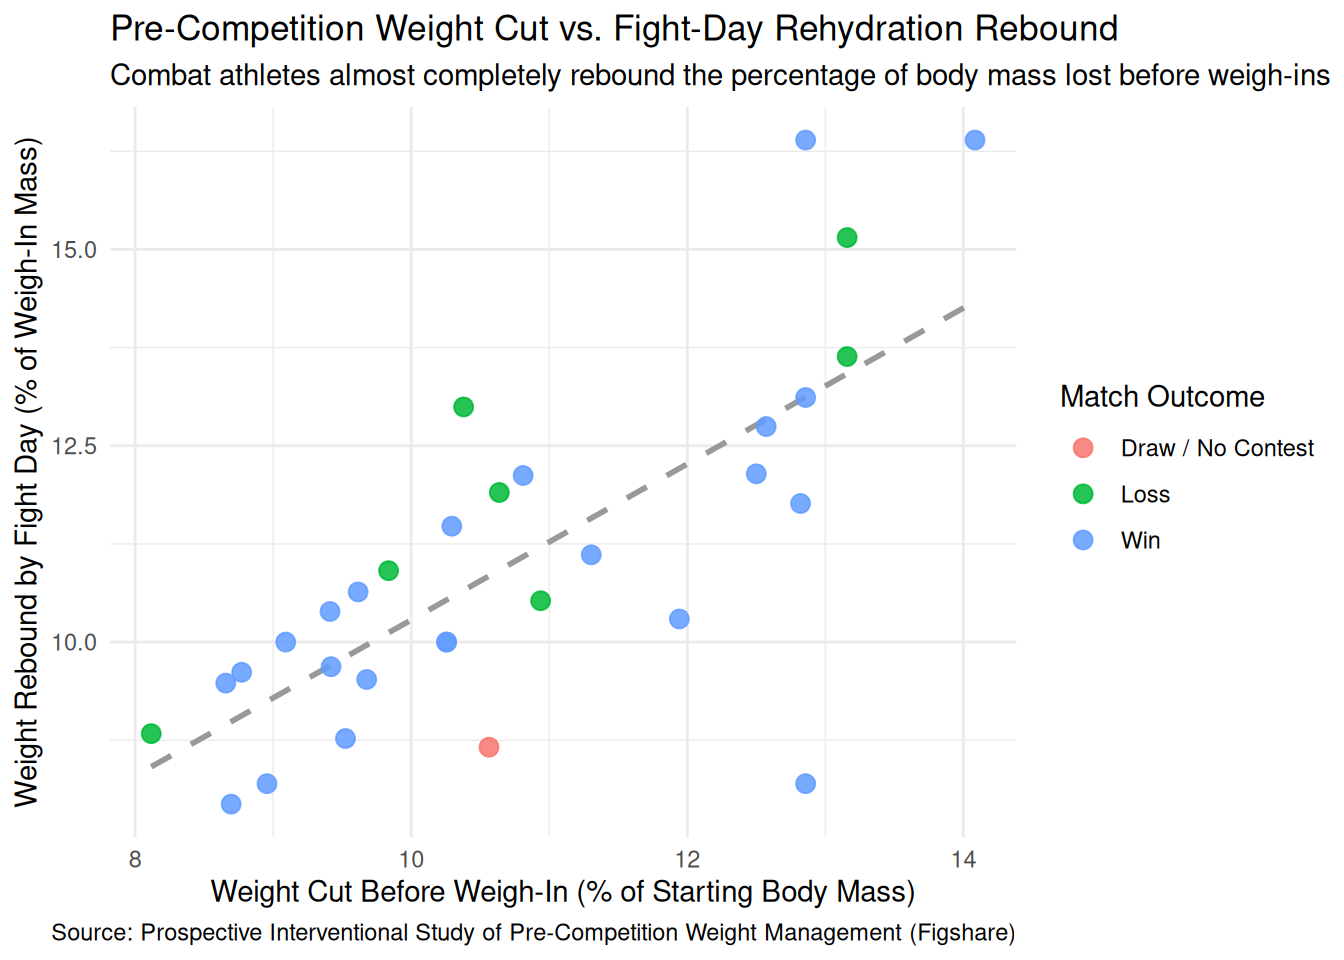
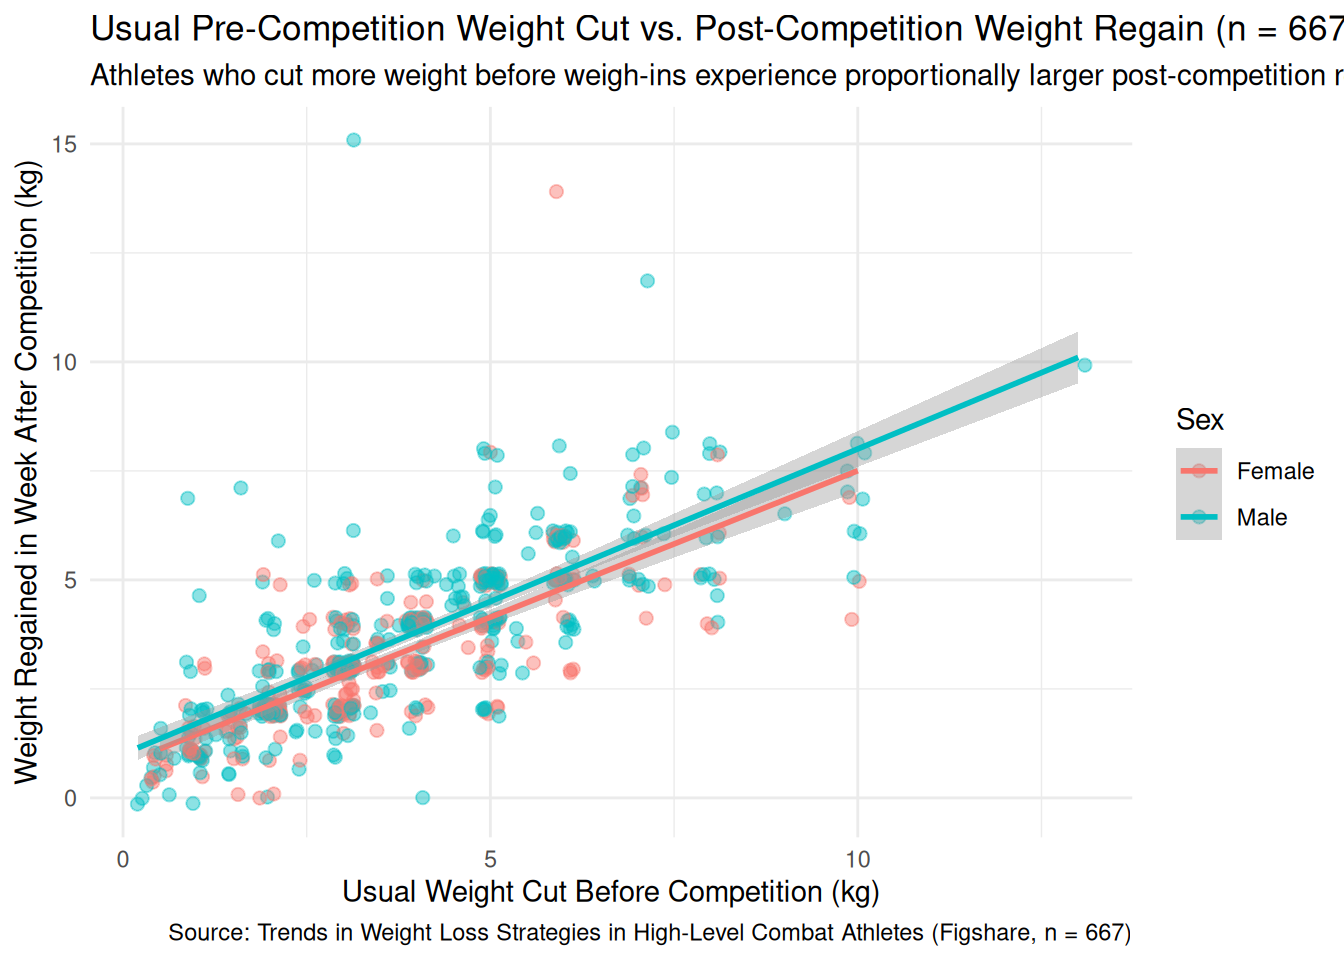
Built site for gh-pages

diff --git a/index.html b/index.html
@@ -94,24 +94,6 @@ ul.task-list li input[type="checkbox"] {
 </div>
 </div>
 </div>
-<div class="cell">
-<div class="cell-output-display">
-<div>
-<figure class="figure">
-<p><img src="project_files/figure-html/unnamed-chunk-4-1.png" class="img-fluid figure-img" width="672"></p>
-</figure>
-</div>
-</div>
-</div>
-<div class="cell">
-<div class="cell-output-display">
-<div>
-<figure class="figure">
-<p><img src="project_files/figure-html/unnamed-chunk-5-1.png" class="img-fluid figure-img" width="672"></p>
-</figure>
-</div>
-</div>
-</div>
 
 </main>
 <!-- /main column -->

diff --git a/project.html b/project.html
@@ -94,24 +94,6 @@ ul.task-list li input[type="checkbox"] {
 </div>
 </div>
 </div>
-<div class="cell">
-<div class="cell-output-display">
-<div>
-<figure class="figure">
-<p><img src="project_files/figure-html/unnamed-chunk-4-1.png" class="img-fluid figure-img" width="672"></p>
-</figure>
-</div>
-</div>
-</div>
-<div class="cell">
-<div class="cell-output-display">
-<div>
-<figure class="figure">
-<p><img src="project_files/figure-html/unnamed-chunk-5-1.png" class="img-fluid figure-img" width="672"></p>
-</figure>
-</div>
-</div>
-</div>
 
 </main>
 <!-- /main column -->
